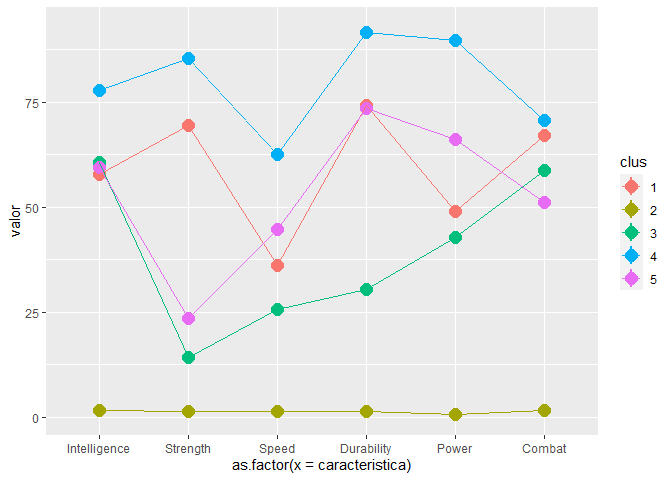
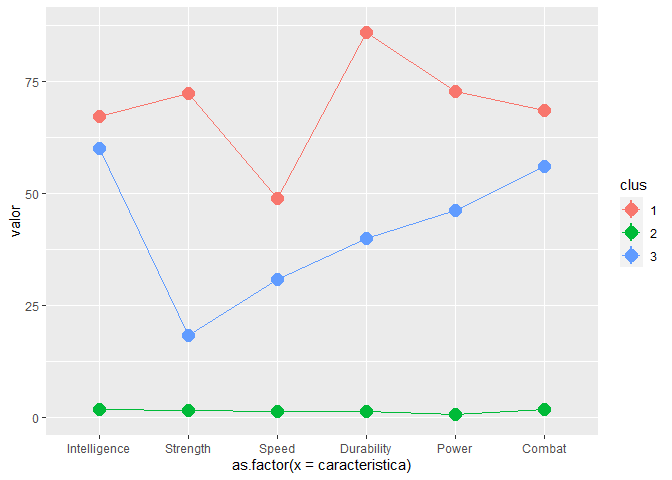
Updt 9/11/21

diff --git a/0. Clases/6.-Analisis-Multivariado.md b/0. Clases/6.-Analisis-Multivariado.md
@@ -1,6 +1,12 @@
 Analisis multivariado
 ================
 
+Libreria:
+
+``` r
+library(tidyverse)
+```
+
 # 1. Análisis de agrupamiento o cluster analysis
 
 ## A. Metodos Jerárquicos:
@@ -27,21 +33,6 @@ las seleccionamos. De igual manera, y no menos importante, tenemos que
 estandarizar nuestros datos, esto lo lograremos con la funcion scale(),
 que tambien puede ser aplicada directamente con dplyr y los pipe
 **%&gt;%**:
-
-``` r
-library(tidyverse)
-```
-
-    ## -- Attaching packages --------------------------------------- tidyverse 1.3.0 --
-
-    ## v ggplot2 3.3.3     v purrr   0.3.4
-    ## v tibble  3.1.2     v dplyr   1.0.5
-    ## v tidyr   1.1.3     v stringr 1.4.0
-    ## v readr   1.3.1     v forcats 0.5.0
-
-    ## -- Conflicts ------------------------------------------ tidyverse_conflicts() --
-    ## x dplyr::filter() masks stats::filter()
-    ## x dplyr::lag()    masks stats::lag()
 
 ``` r
 Clientes.Agrupamiento <- Clientes %>% select(Annual.Income..k.., Spending.Score..1.100.) %>% scale() %>% as.data.frame() 
@@ -76,7 +67,8 @@ Visualizamos el dendograma, utilizando la función **ggdendrogram()**:
 ggdendrogram(dendrogram)
 ```
 
-![](6.-Analisis-Multivariado_files/figure-gfm/unnamed-chunk-5-1.png)<!-- -->
+![](6.-Analisis-Multivariado_files/figure-gfm/unnamed-chunk-6-1.png)<!-- -->
+
 De la figura podemos analizar que podemos quizá obtener 3 grupos o 5
 grupos dependiendo donde queramos cortar las ramas. Vamos por 5. Para
 cortar el árbol, utilizaremos la función **cutree()**
@@ -103,11 +95,13 @@ paquete **“cluster”** y específicamente la función **clusplot()**.
 
 ``` r
 library(cluster)
+```
 
+``` r
 clusplot(Clientes.Agrupamiento, 
          Corte.Arbol.Clientes,
          lines = 0,
-         shade = TRUE,
+         shade = FALSE,
          color = TRUE,
          labels = 2,
          plotchar = FALSE,
@@ -116,29 +110,6 @@ clusplot(Clientes.Agrupamiento,
          xlab = "Ingresos anuales",
          ylab = "Puntuación (1-100)"
 )
-```
-
-![](6.-Analisis-Multivariado_files/figure-gfm/unnamed-chunk-8-1.png)<!-- -->
-
-``` r
-Corte <- as.factor(Corte.Arbol.Clientes)
-
-Clientes.Agrupamiento %>% ggplot(aes(x=Annual.Income..k.., y= Spending.Score..1.100.))+
-  geom_point(aes(color=Corte))+
-  scale_color_viridis_d()+
-  theme(legend.position = "none")
-```
-
-![](6.-Analisis-Multivariado_files/figure-gfm/unnamed-chunk-9-1.png)<!-- -->
-
-También puede colocar los colore de manera manual:
-
-``` r
-Clientes.Agrupamiento %>% ggplot(aes(x=Annual.Income..k.., y= Spending.Score..1.100.))+
-  geom_point(aes(color=Corte))+
-  scale_color_manual(values = c("#FFDB6D", "#C4961A", "#00AFBB", 
-                       "#D16103", "#C3D7A4"))+
-  theme(legend.position = "none")
 ```
 
 ![](6.-Analisis-Multivariado_files/figure-gfm/unnamed-chunk-10-1.png)<!-- -->
@@ -158,11 +129,14 @@ wcss = vector()
 for (i in 1:10){
   wcss[i] <- sum(kmeans(Clientes.Agrupamiento, i)$withinss)
 }
+```
+
+``` r
 plot(1:10, wcss, type = 'b', main = "Método del codo",
      xlab = "Número de clusters (k)", ylab = "WCSS(k)")
 ```
 
-![](6.-Analisis-Multivariado_files/figure-gfm/unnamed-chunk-11-1.png)<!-- -->
+![](6.-Analisis-Multivariado_files/figure-gfm/unnamed-chunk-12-1.png)<!-- -->
 
 En el gráfico generado, tenemos que concentrarnos en determinar el valor
 de K donde se visualiza el cambio de tendencia. Este se encuentra entre
@@ -185,6 +159,9 @@ paquete cluster y la función **clustplot()**:
 
 ``` r
 library(cluster)
+```
+
+``` r
 clusplot(Clientes.Agrupamiento, 
          kmeans$cluster,
          lines = 0,
@@ -199,7 +176,7 @@ clusplot(Clientes.Agrupamiento,
          )
 ```
 
-![](6.-Analisis-Multivariado_files/figure-gfm/unnamed-chunk-13-1.png)<!-- -->
+![](6.-Analisis-Multivariado_files/figure-gfm/unnamed-chunk-15-1.png)<!-- -->
 
 Si queremos eliminar los nombres de los clusters:
 
@@ -218,7 +195,10 @@ clusplot(Clientes.Agrupamiento,
          )
 ```
 
-![](6.-Analisis-Multivariado_files/figure-gfm/unnamed-chunk-14-1.png)<!-- -->
+![](6.-Analisis-Multivariado_files/figure-gfm/unnamed-chunk-16-1.png)<!-- -->
+
+Enlace de interes:
+<https://medium.com/analytics-vidhya/how-to-determine-the-optimal-k-for-k-means-708505d204eb>
 
 ## C. Base de dato extra - Otra metodología
 
@@ -239,21 +219,6 @@ filas iniciales (para ello utizamos el paquete textshape)
 library(textshape)
 ```
 
-    ## 
-    ## Attaching package: 'textshape'
-
-    ## The following object is masked from 'package:dplyr':
-    ## 
-    ##     combine
-
-    ## The following object is masked from 'package:purrr':
-    ## 
-    ##     flatten
-
-    ## The following object is masked from 'package:tibble':
-    ## 
-    ##     column_to_rownames
-
 ``` r
 Marvel <- subset(Marvel, select = -c(Alignment, Total))
 Marvel <- Marvel[!duplicated(Marvel$Name), ] # Eliminamos duplicados
@@ -266,28 +231,7 @@ grupos.
 
 ``` r
 library(factoextra)
-```
-
-    ## Welcome! Want to learn more? See two factoextra-related books at https://goo.gl/ve3WBa
-
-``` r
 library(NbClust)
-```
-
-Si tuviesemos la necesidad de realizar un escaladao, lo hariamos. Sin
-embargo, en este caso todas las variables de interes tienen los mismos
-rangos y unidades. Paramos de frente al analisis.
-
-``` r
-#fviz_nbclust(Marvel, kmeans, method = "wss")
-```
-
-``` r
-#fviz_nbclust(Marvel, kmeans, method = "silhouette")
-```
-
-``` r
-#fviz_nbclust(Marvel, kmeans, method = "gap_stat")
 ```
 
 Vamos a realizar 3 diferentes agrupamientos finales para analizar:
@@ -582,6 +526,9 @@ Realizaremos un PCA para la base de datos iris de datasets:
 library(dplyr)
 library(tidyverse)
 library(factoextra)
+```
+
+``` r
 data("iris")
 iris.PCA <- iris %>% select(-Species)
 pca.iris <- prcomp(iris.PCA,scale=TRUE)
@@ -593,25 +540,6 @@ summary(pca.iris)
     ## Standard deviation     1.7084 0.9560 0.38309 0.14393
     ## Proportion of Variance 0.7296 0.2285 0.03669 0.00518
     ## Cumulative Proportion  0.7296 0.9581 0.99482 1.00000
-
-``` r
-fviz_pca_ind(pca.iris, 
-             geom.ind = "point", 
-             pointshape = 21, 
-             pointsize = 2, 
-             fill.ind = iris$Species, 
-             col.ind = "black", 
-             palette = "jco", 
-             addEllipses = TRUE, 
-             label = "var", 
-             col.var = "black", 
-             repel = TRUE, 
-             legend.title = "Especies") + 
-  ggtitle("Agrupamiento por coponentes principales") + 
-  theme(plot.title = element_text(hjust = 0.5))
-```
-
-![](6.-Analisis-Multivariado_files/figure-gfm/unnamed-chunk-42-1.png)<!-- -->
 
 Para añadir las flechas, utilizamos la función **"fviz\_pca\_biplot()**:
 
@@ -630,4 +558,4 @@ fviz_pca_biplot(pca.iris,
                 repel = TRUE)
 ```
 
-![](6.-Analisis-Multivariado_files/figure-gfm/unnamed-chunk-43-1.png)<!-- -->
+![](6.-Analisis-Multivariado_files/figure-gfm/unnamed-chunk-44-1.png)<!-- -->
